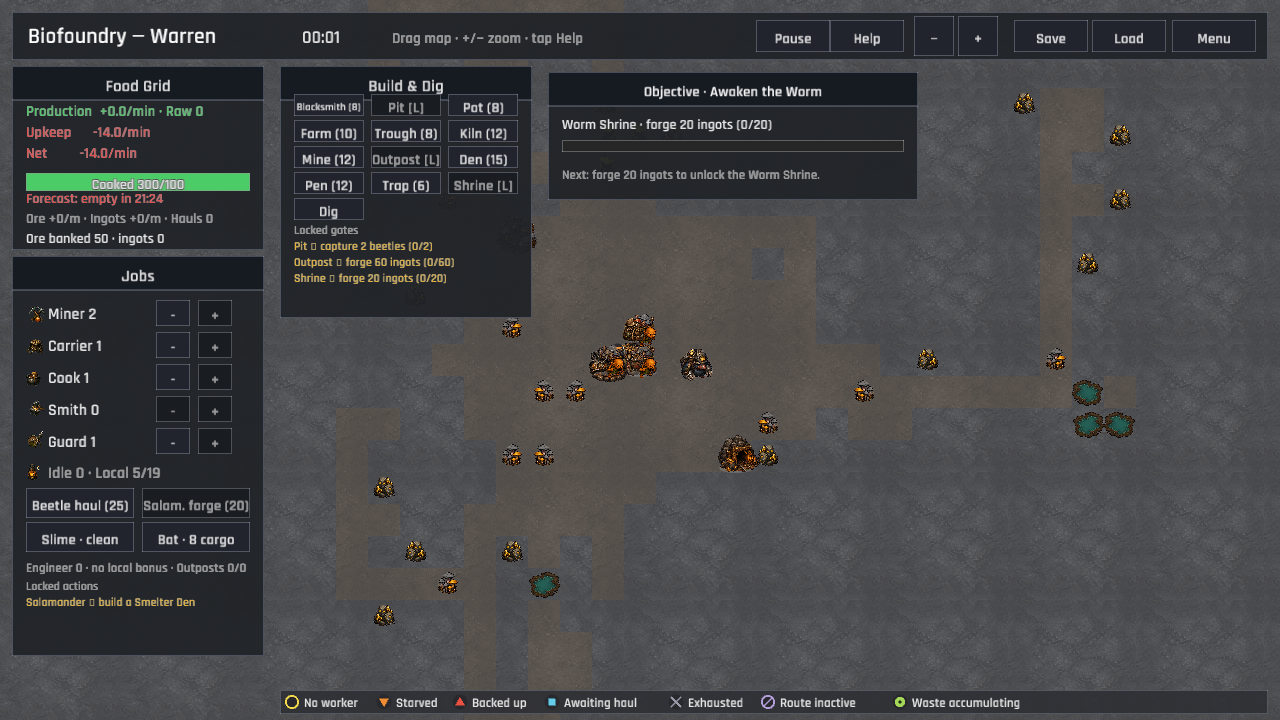
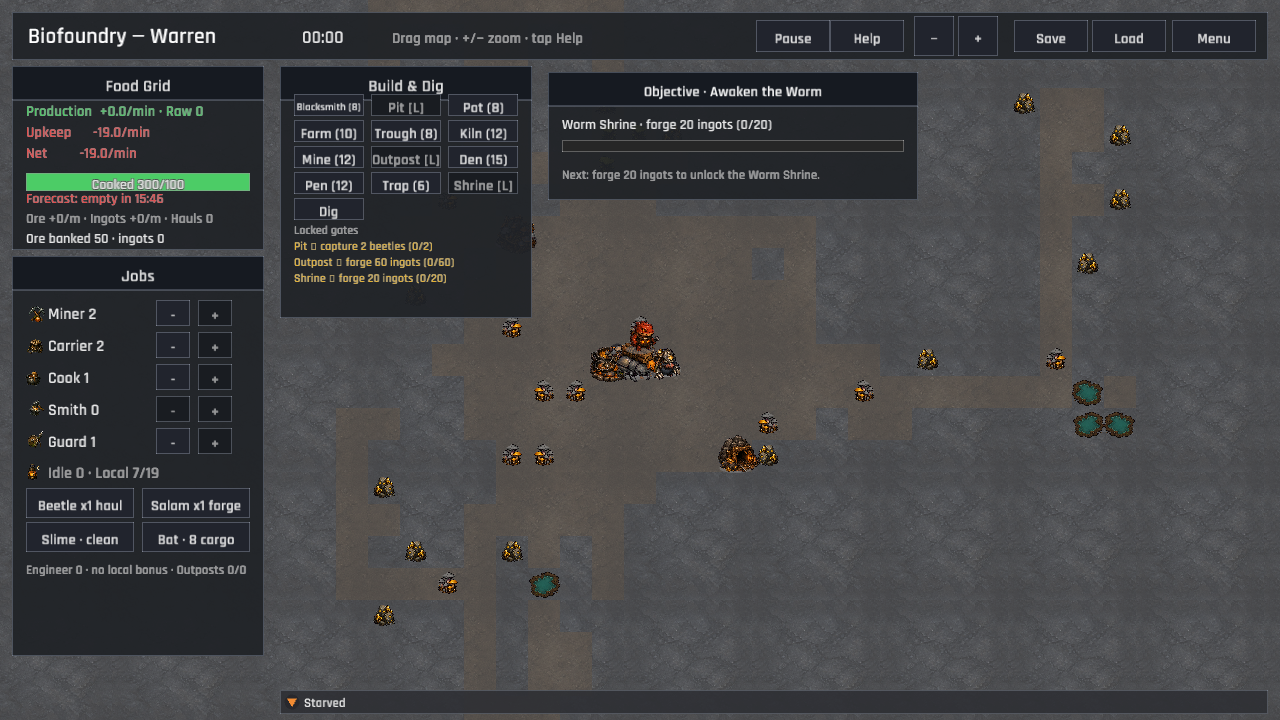
The warren shows the living support it has earned (optional specialist feedback)
Active local Beetles and Salamanders now show their current count and practical role in the Jobs panel, so optional recruitment choices remain legible after the first recruit. The canonical optional capture stages one of each support creature while preserving the locked Slime and Bat choices. Extracted the optional label and capture-fixture responsibilities into named modules to keep the HUD and scene setup below the Rust file-size limit.

Tests: cargo fmt -- --check; cargo test --all-targets --quiet; cargo clippy --all-targets --all-features -- -D warnings; .\\publish.ps1

diff --git a/src/ui/hud/panels.rs b/src/ui/hud/panels.rs
@@ -2,9 +2,11 @@
 //! job assignment panel, the build/dig tools, and the tutorial card.
 
 mod food;
+mod specialists;
 mod top_bar;
 
 pub(super) use food::draw_food_grid_panel;
+use specialists::{optional_specialist_label, optional_support_label};
 pub(super) use top_bar::{
     compact_food_recovery_hint, compact_raid_defense_hint, compact_top_bar,
     condensed_food_recovery_hint, condensed_raid_defense_hint, reassignable_job_count,
@@ -383,12 +385,22 @@ pub(super) fn draw_jobs_panel(
         .iter()
         .filter(|c| c.species == "bat_courier")
         .count();
+    let local_beetles = session
+        .creatures
+        .iter()
+        .filter(|c| !c.is_remote() && c.species == "beetle")
+        .count();
+    let local_salamanders = session
+        .creatures
+        .iter()
+        .filter(|c| !c.is_remote() && c.species == "salamander")
+        .count();
     let half = (panel.w - 36.0) / 2.0;
     let specialist_height = if compact { 34.0 } else { 30.0 };
     let specialist_step = if compact { 38.0 } else { 34.0 };
     if hud_button(
         Rect::new(x, y, half, specialist_height),
-        &optional_support_label("beetle", data.balance.beetle_ore_cost),
+        &optional_support_label("beetle", data.balance.beetle_ore_cost, local_beetles),
         session.economy.ore_stock >= data.balance.beetle_ore_cost,
         mouse,
     ) {
@@ -397,7 +409,11 @@ pub(super) fn draw_jobs_panel(
     let has_den = session.buildings_of("smelter").next().is_some();
     if hud_button(
         Rect::new(x + half + 8.0, y, half, specialist_height),
-        &format!("Salam. forge ({})", data.balance.salamander_ore_cost),
+        &optional_support_label(
+            "salamander",
+            data.balance.salamander_ore_cost,
+            local_salamanders,
+        ),
         has_den && session.economy.ore_stock >= data.balance.salamander_ore_cost,
         mouse,
     ) {
@@ -469,24 +485,6 @@ pub(super) fn draw_jobs_panel(
                 TextStyle::new(12.0, dark::WARNING).params(),
             );
         }
-    }
-}
-
-fn optional_specialist_label(species: &str, posted: bool) -> &'static str {
-    match (species, posted) {
-        ("slime_janitor", false) => "Slime · clean",
-        ("slime_janitor", true) => "Slime · posted",
-        ("bat_courier", false) => "Bat · 8 cargo",
-        ("bat_courier", true) => "Bat · posted",
-        _ => "Specialist",
-    }
-}
-
-fn optional_support_label(species: &str, cost: u32) -> String {
-    match species {
-        "beetle" => format!("Beetle haul ({cost})"),
-        "salamander" => format!("Salam. forge ({cost})"),
-        _ => format!("{species} ({cost})"),
     }
 }
 

diff --git a/src/game/capture_scenes/optional.rs b/src/game/capture_scenes/optional.rs
@@ -1,0 +1,38 @@
+//! Capture scene for optional support specialists and their active benefits.
+
+use crate::game::Game;
+use crate::state::creatures::Job;
+use crate::state::structures::Building;
+use crate::state::{GameState, StateTransition};
+
+pub(super) fn begin(game: &mut Game) {
+    game.transition(StateTransition::StartWarren);
+    if let GameState::Warren(session) = &mut game.state {
+        // Show post-campaign support choices without a modal so their
+        // benefits remain reviewable in the canonical HUD capture.
+        session.tutorial_dismissed = true;
+        session.economy.food = 300.0;
+        session.economy.ore_stock = 50;
+        session.won = true;
+        session.victory_shown = true;
+        session.factory_complete = true;
+        session.factory_shown = true;
+        session.creatures[0].job = Job::Guard;
+        session.unlocked.insert("slime_janitor".to_owned());
+        session.unlocked.insert("bat_courier".to_owned());
+        // Keep one local Beetle and Salamander in the roster so the
+        // optional capture proves the active benefit labels, not only
+        // the pre-recruitment choices.
+        session.spawn_creature(&game.data, "beetle", Job::Carrier);
+        let smelter_spot = session
+            .world
+            .tiles
+            .iter_with_pos()
+            .find(|(pos, _)| session.can_place_building(*pos))
+            .map(|(pos, _)| pos);
+        if let Some(spot) = smelter_spot {
+            session.buildings.push(Building::new("smelter", spot));
+            session.spawn_creature(&game.data, "salamander", Job::Smelter);
+        }
+    }
+}

diff --git a/src/game/capture_scenes.rs b/src/game/capture_scenes.rs
@@ -10,6 +10,7 @@ use crate::state::{GameState, StateTransition};
 use macroquad_toolkit::grid::TilePos;
 
 mod endless;
+mod optional;
 mod overlays;
 
 /// Seed a named scene for the headless screenshot harness.
@@ -504,23 +505,7 @@ pub(super) fn begin(game: &mut Game, scene: &str) {
                 }
             }
         }
-        "optional" => {
-            game.transition(StateTransition::StartWarren);
-            if let GameState::Warren(session) = &mut game.state {
-                // Show post-campaign support choices without a modal so their
-                // benefits remain reviewable in the canonical HUD capture.
-                session.tutorial_dismissed = true;
-                session.economy.food = 300.0;
-                session.economy.ore_stock = 50;
-                session.won = true;
-                session.victory_shown = true;
-                session.factory_complete = true;
-                session.factory_shown = true;
-                session.creatures[0].job = Job::Guard;
-                session.unlocked.insert("slime_janitor".to_owned());
-                session.unlocked.insert("bat_courier".to_owned());
-            }
-        }
+        "optional" => optional::begin(game),
         "endless" => {
             game.transition(StateTransition::StartWarren);
             if let GameState::Warren(session) = &mut game.state {

diff --git a/src/ui/hud/panels/specialists.rs b/src/ui/hud/panels/specialists.rs
@@ -1,0 +1,21 @@
+//! Compact labels for optional post-campaign support creatures.
+
+pub(super) fn optional_specialist_label(species: &str, posted: bool) -> &'static str {
+    match (species, posted) {
+        ("slime_janitor", false) => "Slime · clean",
+        ("slime_janitor", true) => "Slime · posted",
+        ("bat_courier", false) => "Bat · 8 cargo",
+        ("bat_courier", true) => "Bat · posted",
+        _ => "Specialist",
+    }
+}
+
+pub(super) fn optional_support_label(species: &str, cost: u32, local_count: usize) -> String {
+    match (species, local_count) {
+        ("beetle", count) if count > 0 => format!("Beetle x{count} haul"),
+        ("salamander", count) if count > 0 => format!("Salam x{count} forge"),
+        ("beetle", _) => format!("Beetle haul ({cost})"),
+        ("salamander", _) => format!("Salam. forge ({cost})"),
+        _ => format!("{species} ({cost})"),
+    }
+}

diff --git a/src/ui/hud/panels/tests.rs b/src/ui/hud/panels/tests.rs
@@ -198,10 +198,19 @@ fn optional_specialist_buttons_explain_when_the_unique_post_is_filled() {
 
 #[test]
 fn optional_support_buttons_name_their_practical_roles() {
-    assert_eq!(optional_support_label("beetle", 25), "Beetle haul (25)");
+    assert_eq!(optional_support_label("beetle", 25, 0), "Beetle haul (25)");
     assert_eq!(
-        optional_support_label("salamander", 20),
+        optional_support_label("salamander", 20, 0),
         "Salam. forge (20)"
+    );
+}
+
+#[test]
+fn active_support_buttons_keep_their_local_benefit_visible() {
+    assert_eq!(optional_support_label("beetle", 25, 2), "Beetle x2 haul");
+    assert_eq!(
+        optional_support_label("salamander", 20, 1),
+        "Salam x1 forge"
     );
 }
 
